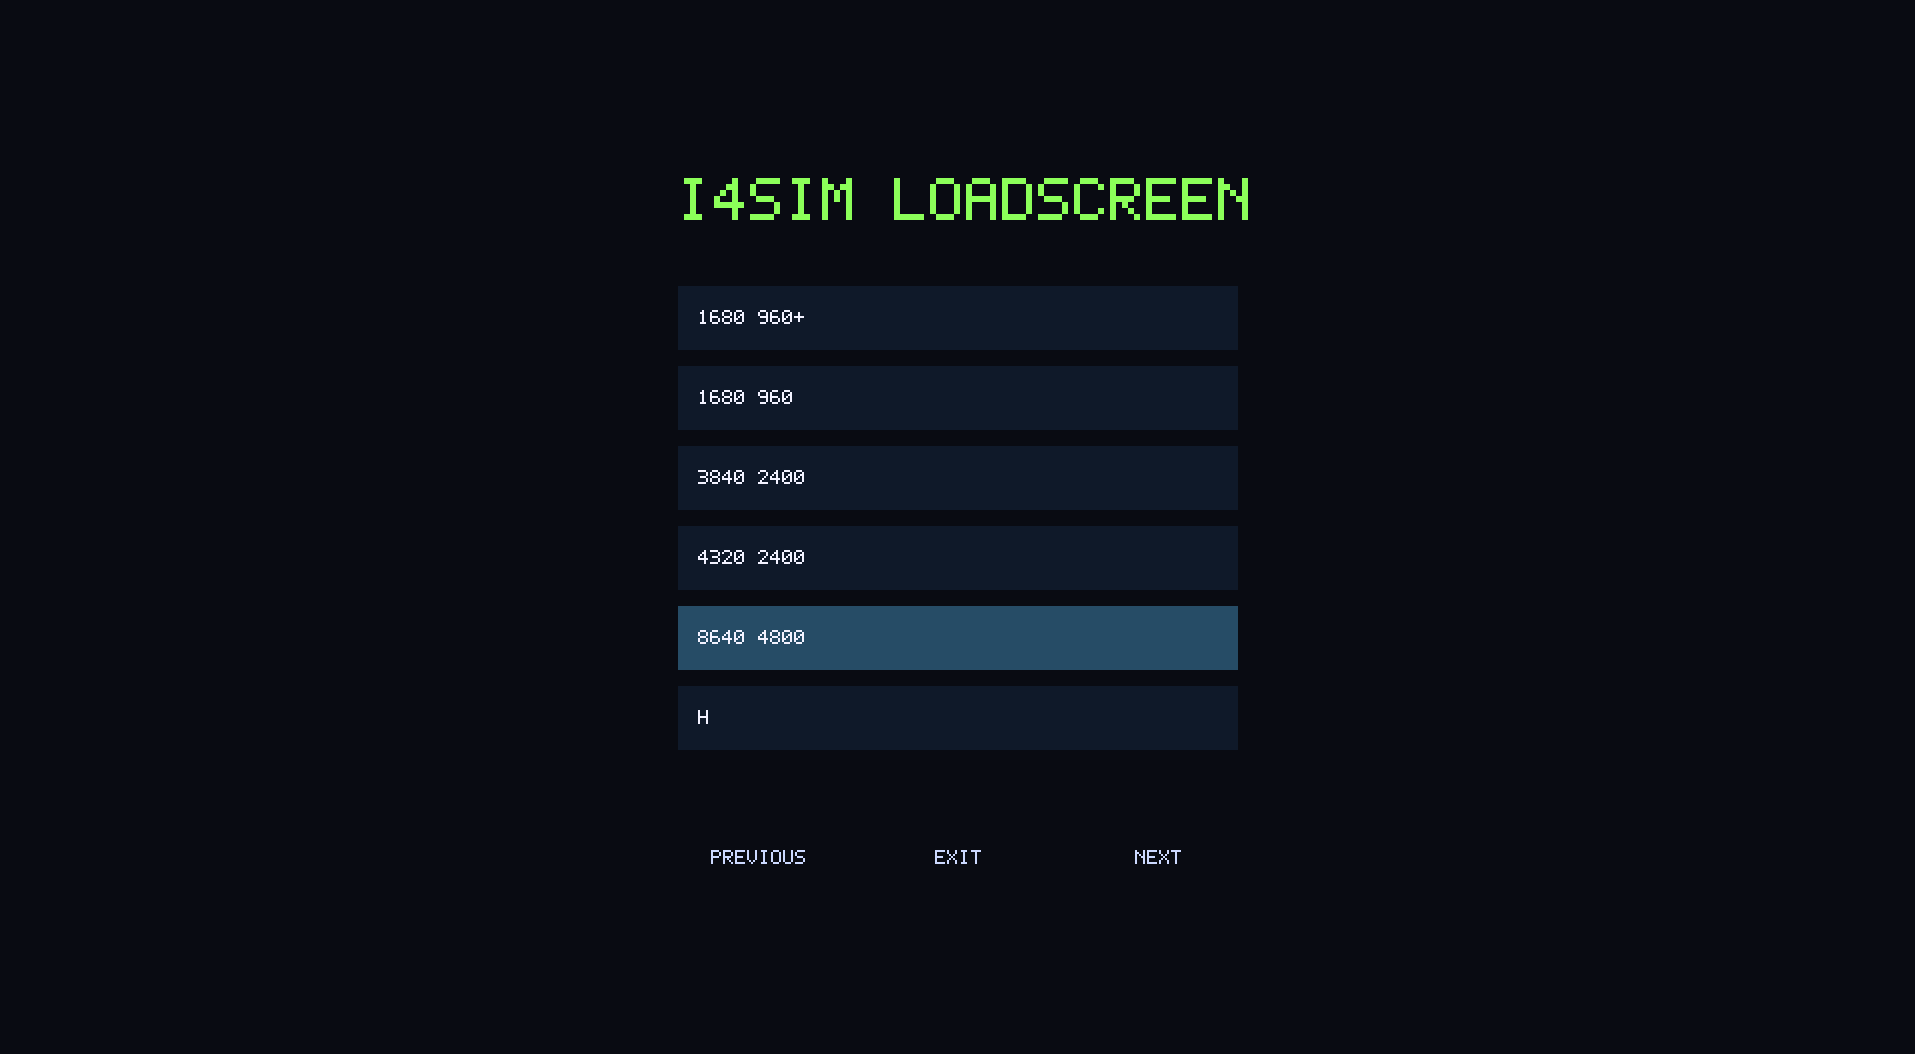
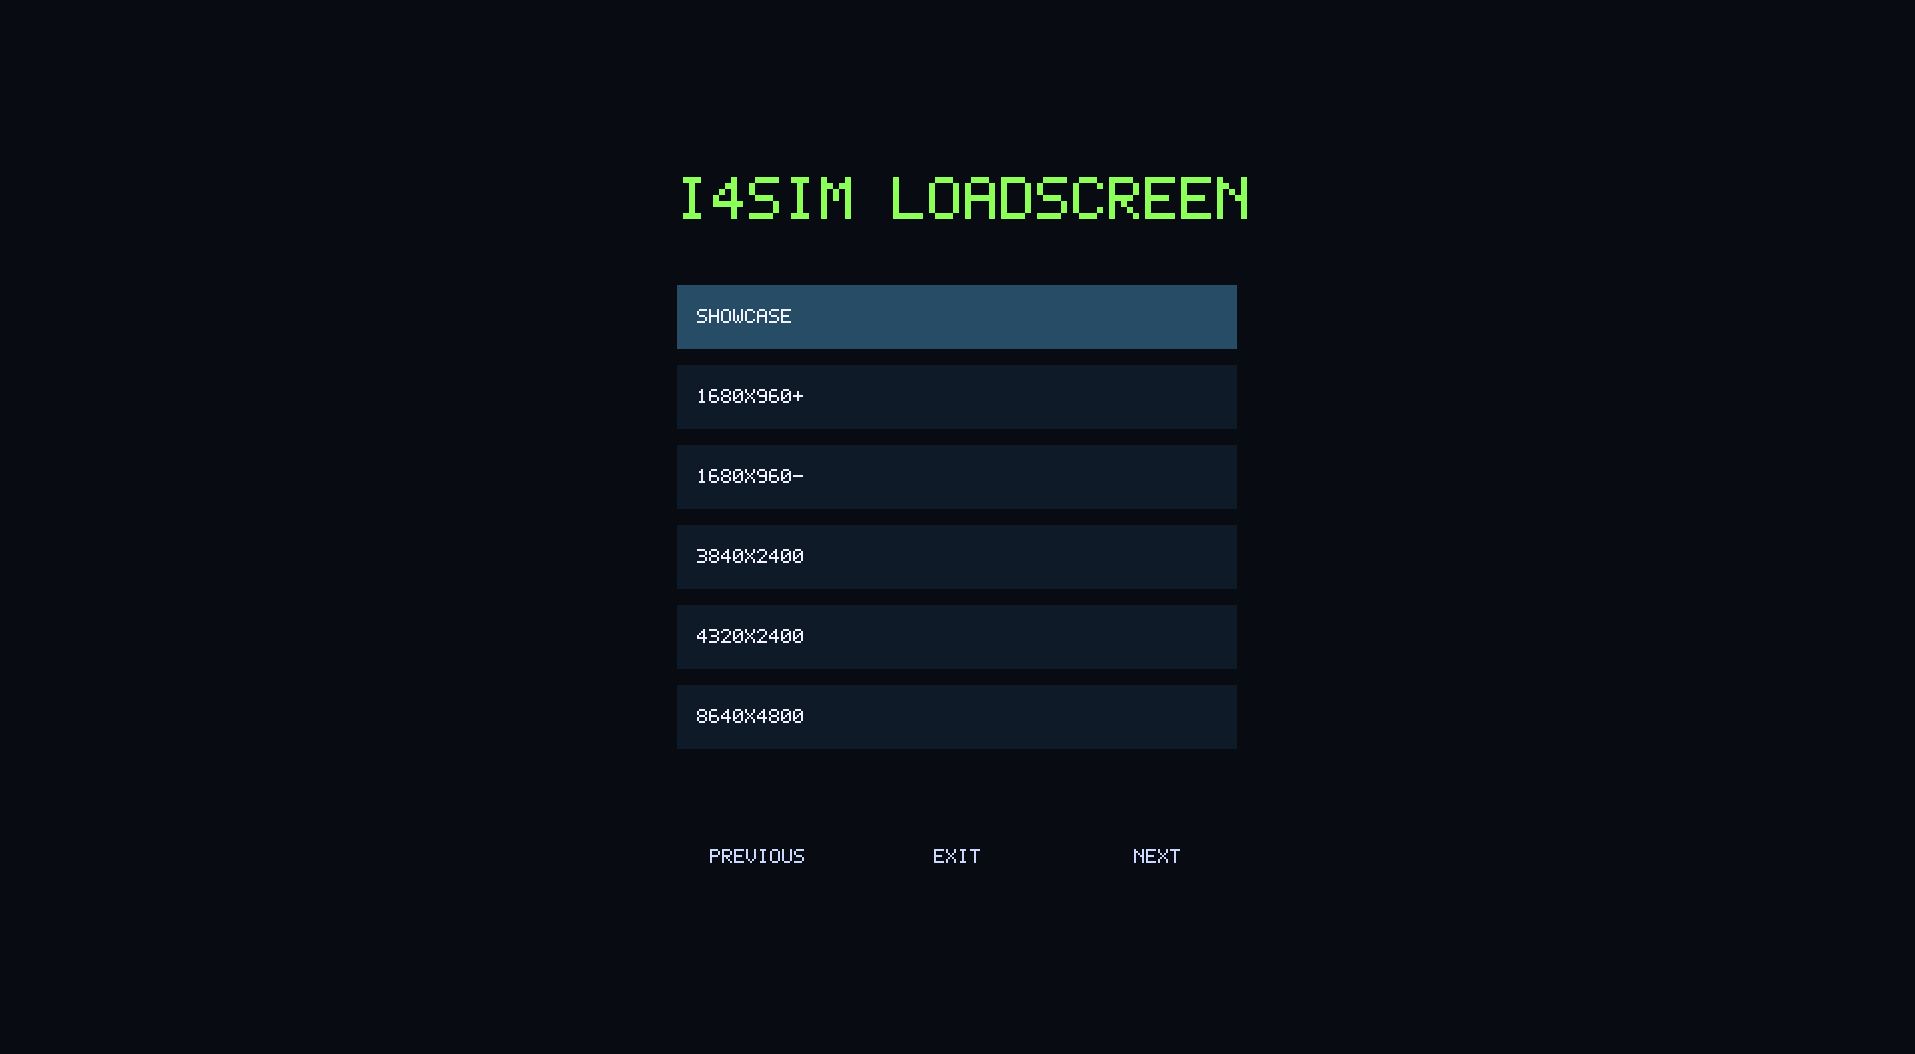
docs(media): refresh the i4sim loadscreen capture
The capture shows the SHOWCASE row first and the six remaining
blueprints, rendered offscreen at the size of the former window capture.

diff --git a/docs/design/2026-11-19-i4sim-showcase-shuttle.md b/docs/design/2026-11-19-i4sim-showcase-shuttle.md
@@ -149,6 +149,7 @@ Title: `feat(i4sim): repeat the showcase scenes and trim the blueprint catalog`
 - Scenario format: optional `"repeat": "none" | "shuttle" | "restart"`; `RestartTimer` decides when a restarting scene starts again.
 - Controller: a restarting scene restarts itself as `R` does, keeping its speed and run state. (Merged with main's session split; the earlier session refactor commit is superseded by main's `FactoryController::restart`.)
 - Showcase: the original `H` layout is now the h-crossing scene (four movers swap diagonal corners with predictive passing, shuttling); the catalog holds six originals.
+- Media: `docs/media/launcher-loadscreen.png` shows the new catalog, captured offscreen at the old size.
 - Blueprint screen: SHOWCASE is now the first row; the session and launcher tests press Down to reach the first blueprint.
 - `AGENTS.md`: pull a local branch before starting work on it.
 - Catalog: seven blueprints deleted; the build copy and the relocation test now mirror the catalog instead of adding to an old copy.
@@ -162,10 +163,9 @@ Title: `feat(i4sim): repeat the showcase scenes and trim the blueprint catalog`
 
 **Dependencies and merge order.** None; Lab only, no Kinetra change. The branch already contains main with #19 (merge commit).
 
-**Follow-up.** Refresh `docs/media/launcher-loadscreen.png`; decide whether `R` should keep the update rate as the automatic restart does.
+**Follow-up.** Decide whether `R` should keep the update rate as the automatic restart does.
 
 ## Open points
 
 - `R` resets the update rate to 200 ticks per second (the new simulation is not given the session's rate); the automatic restart keeps it. Pre-existing, not changed here.
-- [launcher-loadscreen.png](../media/launcher-loadscreen.png) predates the smaller catalog; refresh it with the next media pass.
 - Measured while designing: shuttling corridor recovery deadlocks on the return leg (one leg done in 40000 ticks); the restart mode exists for this reason.

diff --git a/docs/media/README.md b/docs/media/README.md
@@ -29,7 +29,7 @@ The PNG files are window captures of about 1915 × 1055 pixels; the exact size v
 - **Demo:** `demo-debug.png` has every visual layer enabled (vectors, steering probes, paths, collision shapes, active agents); its statistics show 71 of 193 agents active. The two Demo captures are not the same scene.
 - **Dotio:** `dotio-debug.png` has Debug Mode with vectors, AI states, paths and their filters, steering probes, collision shapes, active agents, hiding hits and Invulnerable enabled.
 - **i4sim:** both captures show the `MAS-demonstrator` blueprint (`MAS-demonstrator.json`), paused at 200 UPS, at tick 83 (`i4sim.png`) and tick 116 (`i4sim-debug.png`, with the View page of the debug menu open). They lack the CORRIDOR TRAFFIC and PREDICTIVE PASS rows of today's View page, so they are due for a refresh.
-- **i4sim loadscreen:** `launcher-loadscreen.png` shows the first catalog page (`1680x960+` to `H`) with `8640x4800` highlighted. It predates the SHOWCASE row moving to the top and the removal of the seven city blueprints, so the rows it shows are out of date.
+- **i4sim loadscreen:** `launcher-loadscreen.png` shows the first catalog page with the SHOWCASE row first and highlighted, then `1680x960+` to `8640x4800`. Unlike the other captures it is not a window capture: it was rendered offscreen (`SDL_VIDEODRIVER=offscreen LIBGL_ALWAYS_SOFTWARE=1`) at 1915 × 1054 from a fresh i4sim session and read back with `glReadPixels`, so it has no window decoration and RGB instead of RGBA pixels.
 
 ## Refreshing the media
 
